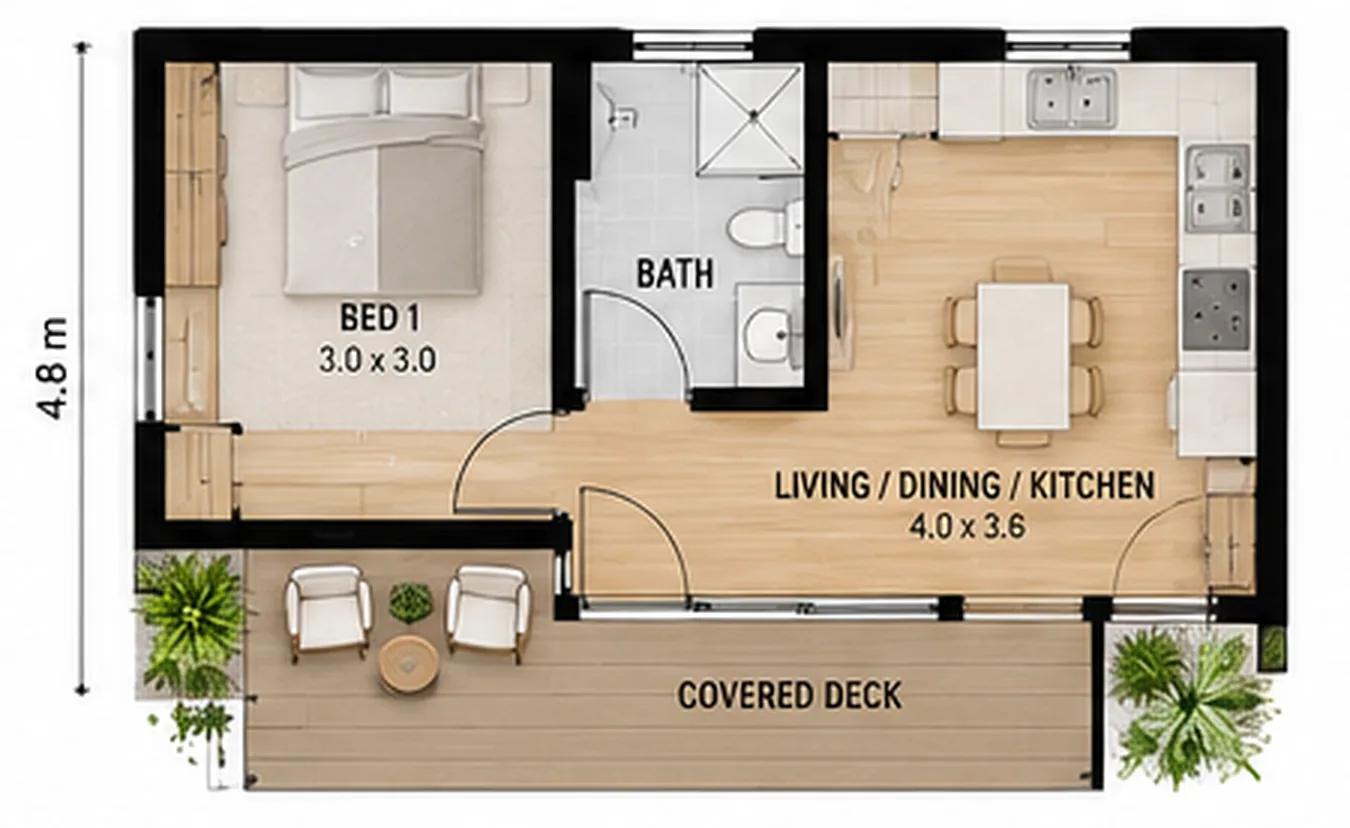
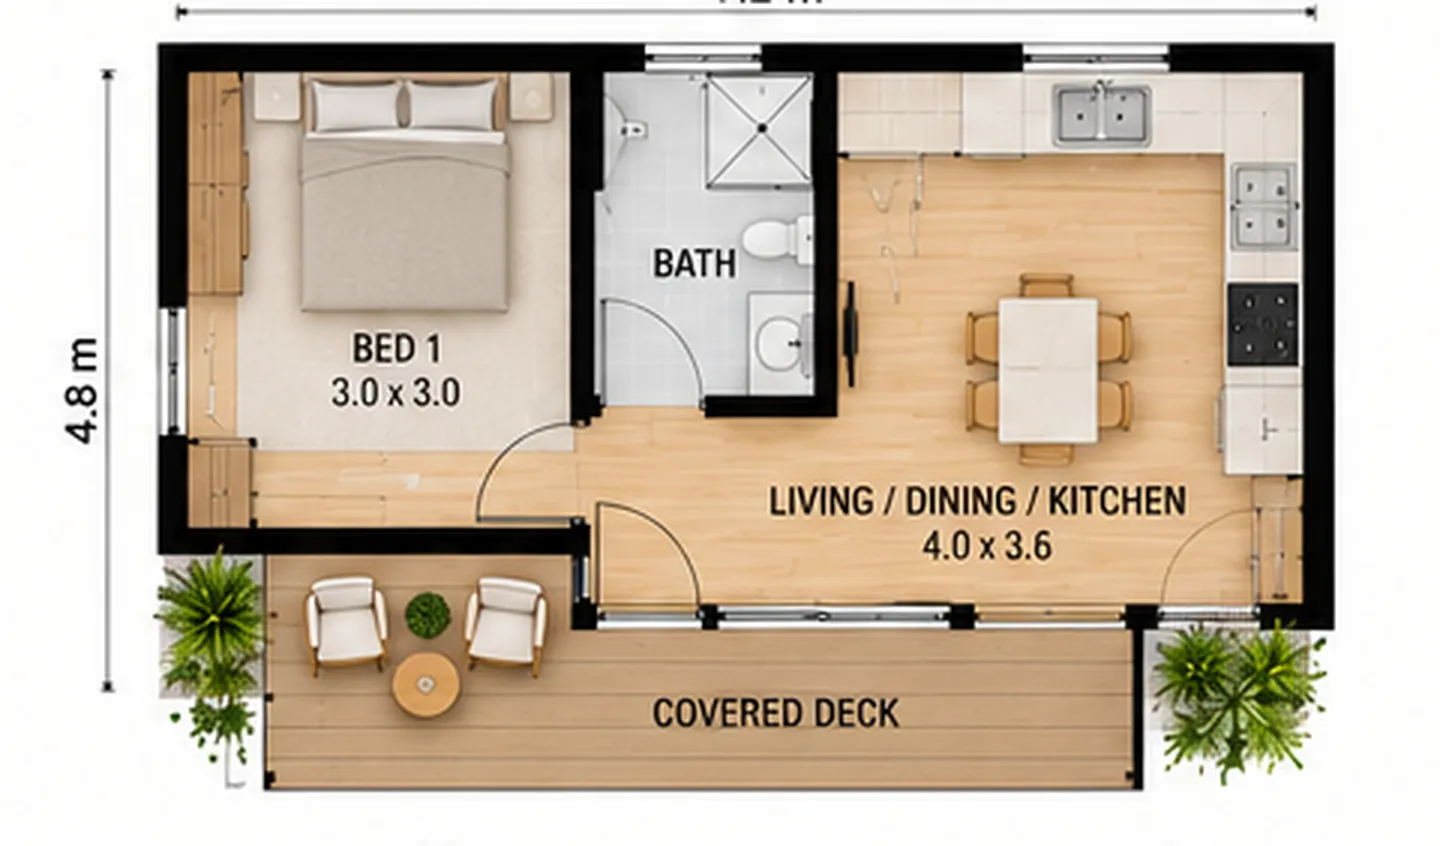
Use the updated granny flat designer pack.
Swap in the new Modern, Contemporary and Traditional sheets. Areas and footprints are unchanged. Each design now shows the exterior, floor plan, living interior and bedroom from the updated artwork.

diff --git a/src/components/ServiceLayouts.tsx b/src/components/ServiceLayouts.tsx
@@ -242,24 +242,32 @@ const GRANNY_FLATS: {
         alt: "Concept exterior of the Modern Timber granny flat, with vertical timber cladding and a deck",
         caption: "Exterior",
         width: 1024,
-        height: 718,
+        height: 672,
         span: "g-12 is-sheet",
       },
       {
         src: "granny-flats/modern-timber-plan.webp",
         alt: "Concept floor plan of the Modern Timber granny flat, 8.0 by 4.0 metres, with one bedroom, one bathroom and open-plan living",
         caption: "Floor plan",
-        width: 1434,
-        height: 798,
+        width: 1476,
+        height: 834,
         span: "g-12 is-plan",
       },
       {
-        src: "granny-flats/modern-timber-interior.webp",
-        alt: "Concept interior of the Modern Timber granny flat, looking through the open-plan living area to the deck",
-        caption: "Interior",
+        src: "granny-flats/modern-timber-living.webp",
+        alt: "Concept interior of the Modern Timber granny flat, open-plan living with timber lining",
+        caption: "Living",
         width: 1024,
-        height: 486,
-        span: "g-12 is-wide",
+        height: 352,
+        span: "g-12 is-strip",
+      },
+      {
+        src: "granny-flats/modern-timber-bedroom.webp",
+        alt: "Concept bedroom in the Modern Timber granny flat",
+        caption: "Bedroom",
+        width: 1024,
+        height: 302,
+        span: "g-12 is-strip",
       },
     ],
   },
@@ -274,32 +282,32 @@ const GRANNY_FLATS: {
         alt: "Concept exterior of the Contemporary granny flat, with a flat roof, dark cladding and a covered deck",
         caption: "Exterior",
         width: 1024,
-        height: 718,
+        height: 672,
         span: "g-12 is-sheet",
       },
       {
         src: "granny-flats/contemporary-plan.webp",
         alt: "Concept floor plan of the Contemporary granny flat, 7.2 by 4.8 metres, with one bedroom, one bathroom, open-plan living and a covered deck",
         caption: "Floor plan",
-        width: 1350,
-        height: 828,
+        width: 1440,
+        height: 846,
         span: "g-12 is-plan",
+      },
+      {
+        src: "granny-flats/contemporary-living.webp",
+        alt: "Concept interior of the Contemporary granny flat, open-plan living opening to the covered deck",
+        caption: "Living",
+        width: 1024,
+        height: 352,
+        span: "g-12 is-strip",
       },
       {
         src: "granny-flats/contemporary-bedroom.webp",
         alt: "Concept bedroom in the Contemporary granny flat",
         caption: "Bedroom",
-        width: 816,
-        height: 729,
-        span: "g-6 is-detail",
-      },
-      {
-        src: "granny-flats/contemporary-bathroom.webp",
-        alt: "Concept bathroom in the Contemporary granny flat",
-        caption: "Bathroom",
-        width: 702,
-        height: 729,
-        span: "g-6 is-detail",
+        width: 1024,
+        height: 302,
+        span: "g-12 is-strip",
       },
     ],
   },
@@ -311,33 +319,41 @@ const GRANNY_FLATS: {
     images: [
       {
         src: "granny-flats/traditional-exterior.webp",
-        alt: "Concept exterior of the Traditional granny flat, with a pitched roof and a deck",
+        alt: "Concept exterior of the Traditional granny flat, with a pitched roof, timber posts and a deck",
         caption: "Exterior",
         width: 1024,
-        height: 718,
+        height: 672,
         span: "g-12 is-sheet",
       },
       {
         src: "granny-flats/traditional-plan.webp",
         alt: "Concept floor plan of the Traditional granny flat, 8.4 by 5.4 metres, with one bedroom, one bathroom, a laundry and open-plan living",
         caption: "Floor plan",
-        width: 1458,
-        height: 852,
+        width: 1452,
+        height: 876,
         span: "g-12 is-plan",
       },
       {
-        src: "granny-flats/traditional-interior.webp",
-        alt: "Concept interior of the Traditional granny flat, with open-plan living and timber finishes",
-        caption: "Interior",
+        src: "granny-flats/traditional-living.webp",
+        alt: "Concept interior of the Traditional granny flat, open-plan living with a pitched ceiling",
+        caption: "Living",
         width: 1024,
-        height: 486,
-        span: "g-12 is-wide",
+        height: 352,
+        span: "g-12 is-strip",
+      },
+      {
+        src: "granny-flats/traditional-bedroom.webp",
+        alt: "Concept bedroom in the Traditional granny flat",
+        caption: "Bedroom",
+        width: 1024,
+        height: 302,
+        span: "g-12 is-strip",
       },
     ],
   },
 ];
 
-/** Granny flats page: the three concept sheets Paul sent on 27 Oct 2026. */
+/** Granny flats page: Paul's updated concept sheets, 27 Oct 2026. */
 export function GrannyFlatsLayout() {
   const service = serviceBySlug("granny-flats");
   if (!service) return null;

diff --git a/src/app/site.css b/src/app/site.css
@@ -810,10 +810,11 @@ a.card:hover .btn__arrow { transform: translate(2px, -2px); }
 @media (max-width: 760px) { .g-7, .g-5, .g-6, .g-4, .g-12 { grid-column: span 12; aspect-ratio: 4 / 3; } }
 
 /* Concept sheets on the granny flats page. Same gallery, with ratios that
-   fit the artwork: heroes are not 21:9, and a floor plan has to stay whole. */
+   fit the artwork: heroes are not 21:9, the wide interiors stay whole, and
+   a floor plan is not cropped. */
 .gallery figure.is-sheet { aspect-ratio: 3 / 2; }
-.gallery figure.is-wide { aspect-ratio: 2 / 1; }
-.gallery figure.is-detail { aspect-ratio: 1 / 1; }
+.gallery figure.is-strip { aspect-ratio: auto; }
+.gallery figure.is-strip img { height: auto; }
 .gallery figure.is-plan {
   background: var(--white);
   aspect-ratio: auto;
@@ -837,9 +838,8 @@ a.card:hover .btn__arrow { transform: translate(2px, -2px); }
   text-transform: uppercase;
 }
 @media (max-width: 760px) {
-  .gallery figure.is-sheet,
-  .gallery figure.is-wide,
-  .gallery figure.is-detail { aspect-ratio: 4 / 3; }
+  .gallery figure.is-sheet { aspect-ratio: 3 / 2; }
+  .gallery figure.is-strip,
   .gallery figure.is-plan { aspect-ratio: auto; }
 }
 
